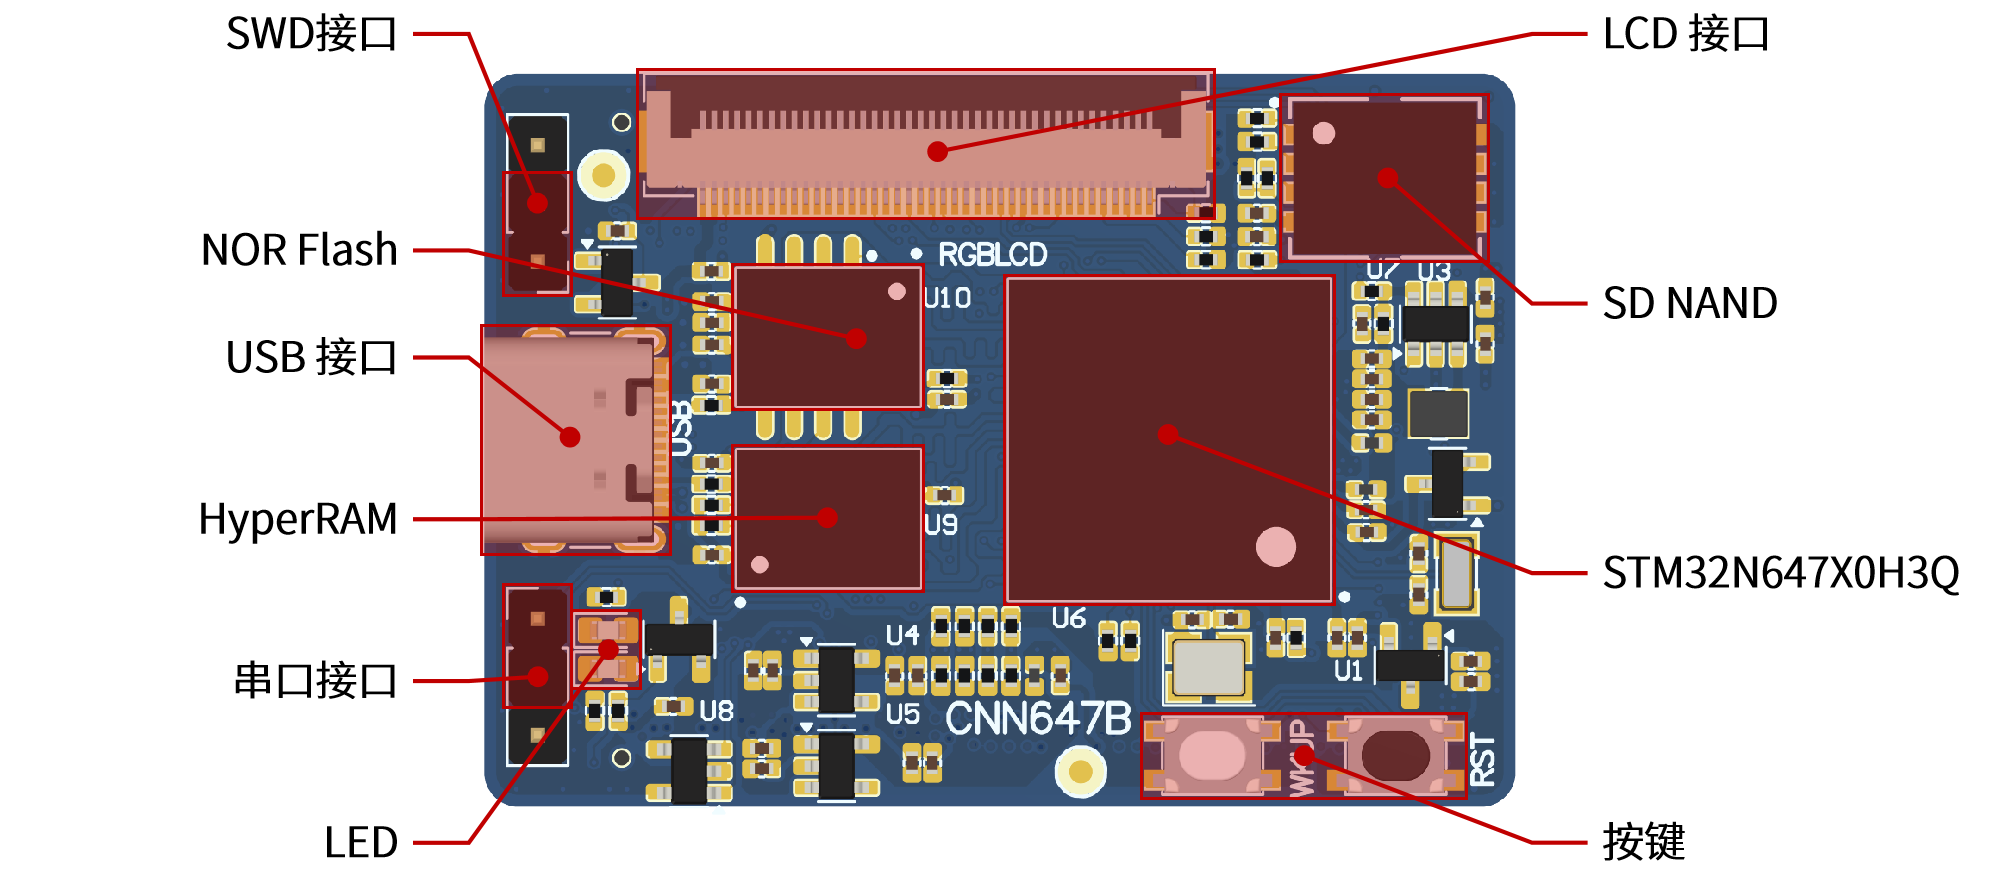
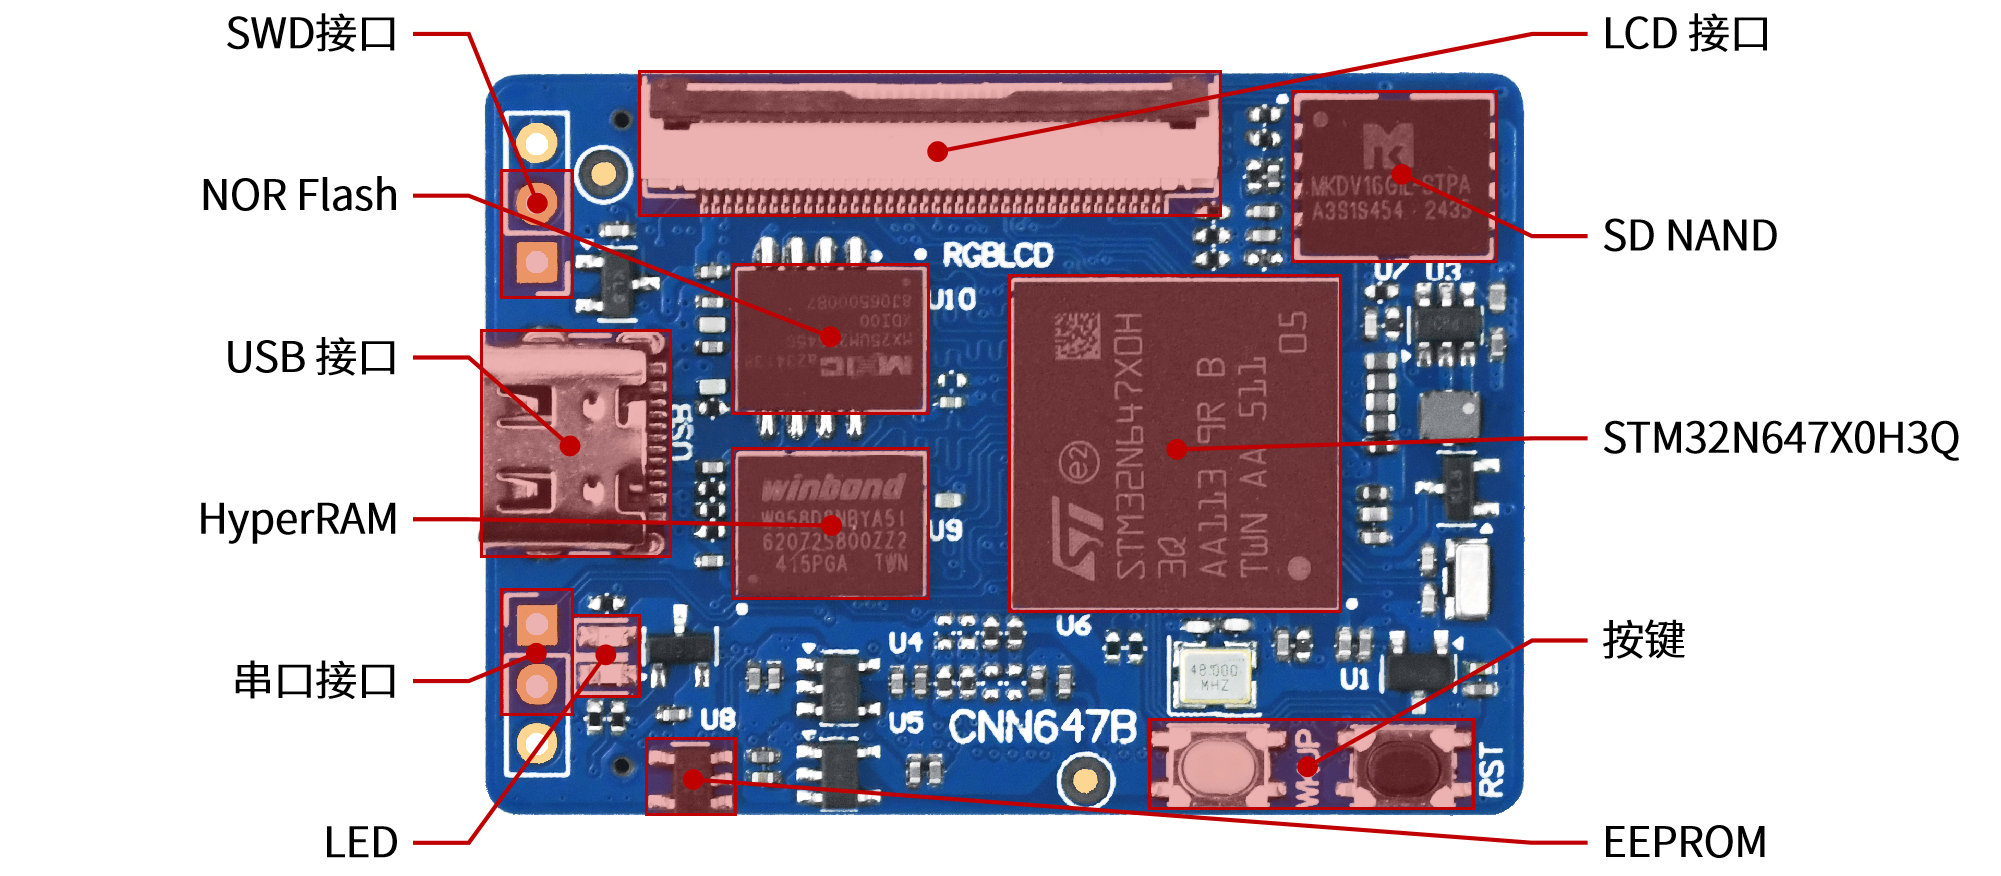
完善开发板介绍章节

diff --git a/start-guide/stm32n647-board-introduction.md b/start-guide/stm32n647-board-introduction.md
@@ -11,11 +11,43 @@ STM32N647 开发板是正点原子以 STM32N647X0H3Q 为核心推出的开发板
 
 ## 底板硬件资源
 
-<!-- ![dnn647 hardware](./img/dnn647-hardware.png) -->
+![dnn647 hardware](./img/dnn647-hardware.png)
 
 | 硬件 | 描述 |
 | --- | --- |
-|  |  |
+| STM32N647 核心板 | [**详细介绍**](#核心板硬件资源) |
+| 调试接口 | 可用于 MCU 的在线调试和固件烧录 |
+| 复位按键 | 作用与 MCU、NOR Flash、HyperRAM 和外接的 LCD 的复位 |
+| 用户按键 | 用户可编程按键 |
+| 用户 LED | 用户可编程 LED |
+| DC 电源接口 | DC 电源输入接口（6V ~ 15V） |
+| 电源开关 | 用于控制板卡电源 |
+| 电源指示 LED | 指示板卡供电情况 |
+| 电源引出接口 | 对外引出 5V 和 3.3V 电源 |
+| 光环境传感器 | 可用于采集环境光强度及接近距离 |
+| 红外接收 | 用于接收红外遥控信号 |
+| 触摸按键 | 用于实现电容触摸按键 |
+| 蜂鸣器 | 用于发出固定的提示音 |
+| 可调电位器 | 用于控制输入 ADC 的电压 |
+| USB UART 接口 | 用于与上位机的串口通信 |
+| MIPI 摄像头接口 | 用于连接正点原子 MIPI 摄像头模块 |
+| LCD 接口 | 用于连接正点原子 2.8 寸、3.5 寸、4.3 寸、7 寸等不用尺寸和分辨率的 MCU LCD 屏模块 |
+| TF 卡接口 | 用于连接 TF 卡 |
+| USB HOST 接口 | USB 2.0 接口，支持低速、全速和高速模块<br />支持 USB Host 模式 |
+| USB SLAVE 接口 | USB 2.0 接口，支持低速、全速和高速模式<br />支持 USB Host 和 USB Device 模式 |
+| 以太网接口 | 用于连接以太网，最高支持百兆以太网 |
+| CAN 接口 | 用于进行 CAN 通信 |
+| RS485 接口 | 用于进行 RS485 通信 |
+| RS232 公座接口 | 用于进行 RS232 通信 |
+| RS232 母座接口 | 用于进行 RS232 通信 |
+| WIRELESS 模块接口 | 用于连接正点原子 WIRELESS 等 SPI 模块 |
+| DVP 摄像头、OLED 接口 | 用于连接正点原子 OV5640 摄像头、OLED 等模块 |
+| 1-Wire 接口 | 用于连接正点原子 DHT11、DS18B20 等传感器 |
+| 多功能接口 | 用于 PWM DAC、ADC、触摸按键等功能的实现 |
+| 音频输入接口 | 用于音频 Line 输入 |
+| 音频输出接口 | 用于音频输出 |
+| ATK MODULE 接口 | 用于连接正点原子 ATK MODULE 模块 |
+| 光纤音频接口 | 用于音频输入 |
 
 ## 核心板硬件资源
 
@@ -26,10 +58,11 @@ STM32N647 开发板是正点原子以 STM32N647X0H3Q 为核心推出的开发板
 | STM32N647X0H3Q | ST 推出的基于ARM Cortex-M55 的高性能 MCU<br />800MHz 主频<br />内置 4.2MB SRAM<br />内置 600GPOS Neural-ART 加速器<br />内置 NeoChrom GPU、JPEG 编解码器、H-264 编码器<br />[**详细介绍**](./stm32n6-introduction.md) |
 | NORFlash | 容量 32MB，Octo SPI 接口 |
 | HyperRAM | 容量 32MB，HyperBus 接口 |
-| SD NAND | 容量 2GB，4 Bits SD 接口 |
+| SD NAND | 容量 16Gb，4 Bits SD 接口 |
+| EEPROM | 容量 2Kb，I2C 接口 |
 | LED | 蓝色 LED 为电源指示灯<br />红色 LED 为用户指示灯 |
 | 按键 | 黑色按键为复位按键，作用与 MCU、NOR Flash、HyperRAM 和外接的 LCD<br />白色按键用户按键 |
-| LCD 接口 | 用于连接正点原子4.3寸、7寸、10.1寸等不同尺寸和分辨率的RGB LCD屏模块 |
+| LCD 接口 | 用于连接正点原子 4.3 寸、7 寸、10.1 寸等不同尺寸和分辨率的 RGB LCD 屏模块 |
 | USB 接口 | USB 2.0 接口，支持低速、全速和高速模式<br />支持 USB Host 和 USB Device 模式 |
 | SWD 调试接口 | 可用于 MCU 的在线调试和固件烧录 |
 | 串口接口 | 可用以与上位机或其他串口设备进行数据通讯 |
